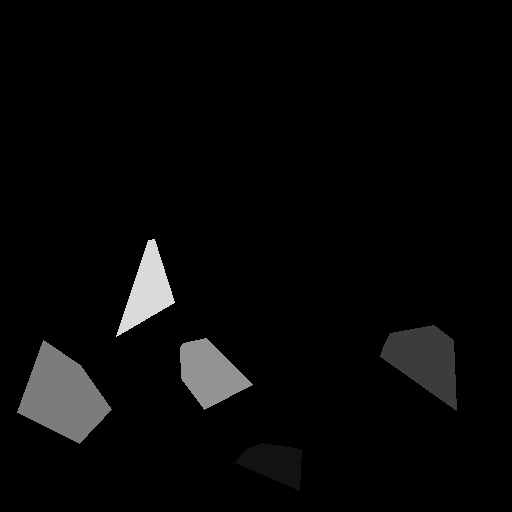
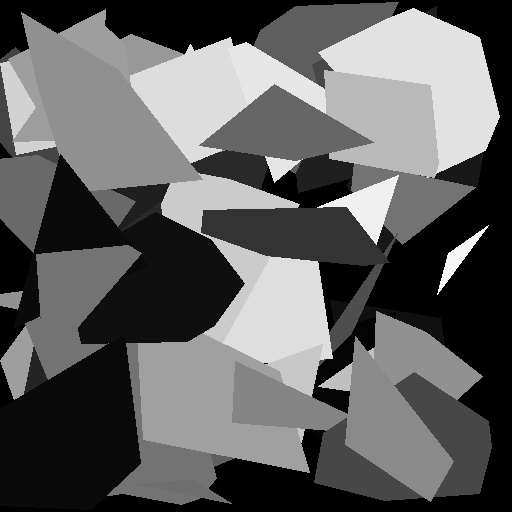
1. Color vanishing problem fixed. Color becomes 1 lowest

diff --git a/main.py b/main.py
@@ -23,14 +23,15 @@ def get_truncated_normal(mean, sd, low, upp):
 def generateRandomPolygon(polygon):
     area = 511*511
     angles = randint(3, POLYGON_ANGLES)
-    originPt = [int(uniform(0, 511)), int(uniform(0,511))]
-    originPt[0] = originPt[0] if ((originPt[0]+50) < 511) else (511-50)
-    originPt[0] = originPt[0] if ((originPt[0]-50) > 0) else 50
-    originPt[1] = originPt[1] if ((originPt[1] + 50) < 511) else (511 - 50)
-    originPt[1] = originPt[1] if ((originPt[1] - 50) > 0) else 50
     polygon = []
+    originPt = []
+    originPt = [int(uniform(0, 511)), int(uniform(0,511))]
+    originPt[0] = originPt[0] if ((originPt[0]+100) < 511) else (511-100)
+    originPt[0] = originPt[0] if ((originPt[0]-100) > 0) else 50
+    originPt[1] = originPt[1] if ((originPt[1] + 100) < 511) else (511 - 100)
+    originPt[1] = originPt[1] if ((originPt[1] - 100) > 0) else 100
     for x in range(angles):
-        pt = [int(uniform(originPt[0] - 50 , originPt[0] + 50)), int(uniform(originPt[1] - 50 , originPt[1] + 50))]
+        pt = [int(uniform(originPt[0] - 100 , originPt[0] + 100)), int(uniform(originPt[1] - 100 , originPt[1] + 100))]
         polygon.append(pt)
     polygon = np.asarray(polygon)
     np.reshape(polygon, (len(polygon), 2))
@@ -39,14 +40,17 @@ def generateRandomPolygon(polygon):
     polygon = np.asarray(polygon)
     polygon = polygon.flatten().reshape(-1,2)
     n = len(polygon)
+    if n < 3:
+        print(polygon)
+        return generateRandomPolygon(polygon)
     for i in range(n):
         i1 = (i + 1) % n
         area += polygon[i][0] * polygon[i1][1] - polygon[i1][0] * polygon[i][1]
     area *= 0.5
     area = abs(area)
     #Area =.5*[(x0y1 - x1y0) + ...+ (x(n-1)y0 - x0y(n-1))]
-    print(area)
-    color = randint(0,255)
+    #print(area)
+    color = randint(1,255)
     polygon = np.array(polygon).tolist()
     polygon.append(color)
     return polygon
@@ -100,8 +104,8 @@ def tweakPolygon(polygon, percentOfAngles):
                 polygon[x][j] = 0
 
     polygon[-1] = int (polygon[-1] + change[-1])
-    if polygon[-1] < 0 :
-        polygon[-1] = 0
+    if polygon[-1] < 1 :
+        polygon[-1] = 1
     if polygon[-1] > 255:
         polygon[-1] = 255
     #print(change)
@@ -115,12 +119,18 @@ def evaluatePolygon(polygon, ref_Image):
     t_points = np.asarray(t_points)
     np.reshape(t_points, (len(polygon) - 1, 2))
     t_points = np.int32(t_points)
-    img = cv2.fillConvexPoly(temp_img, cv2.convexHull(t_points), polygon[-1])
+    temp_img = cv2.fillConvexPoly(temp_img, cv2.convexHull(t_points), polygon[-1])
     combined = temp_img[:, :]
     rows, cols = np.where(combined > 0)
     indices = list([rows,cols])
     fitness_val = 0
-    fitness_val = int(abs(np.sum(ref_Image[tuple(indices)])- (polygon[-1]*len(rows)))/len(rows))
+    if (len(rows)) > 0 :
+        fitness_val = int(abs(np.sum(ref_Image[tuple(indices)])- int(polygon[-1]*len(rows)))/len(rows))
+    else :
+        print("Convex hull Vanished or Color vanished")
+        print(polygon)
+        polygon = generateRandomPolygon(polygon)
+        fitness_val = evaluatePolygon(polygon, ref_Img)
     #print("Polygon Fitness Val -->",fitness_val)
     #cv2.imshow(str(t_points[0,0]), temp_img)
     return fitness_val
